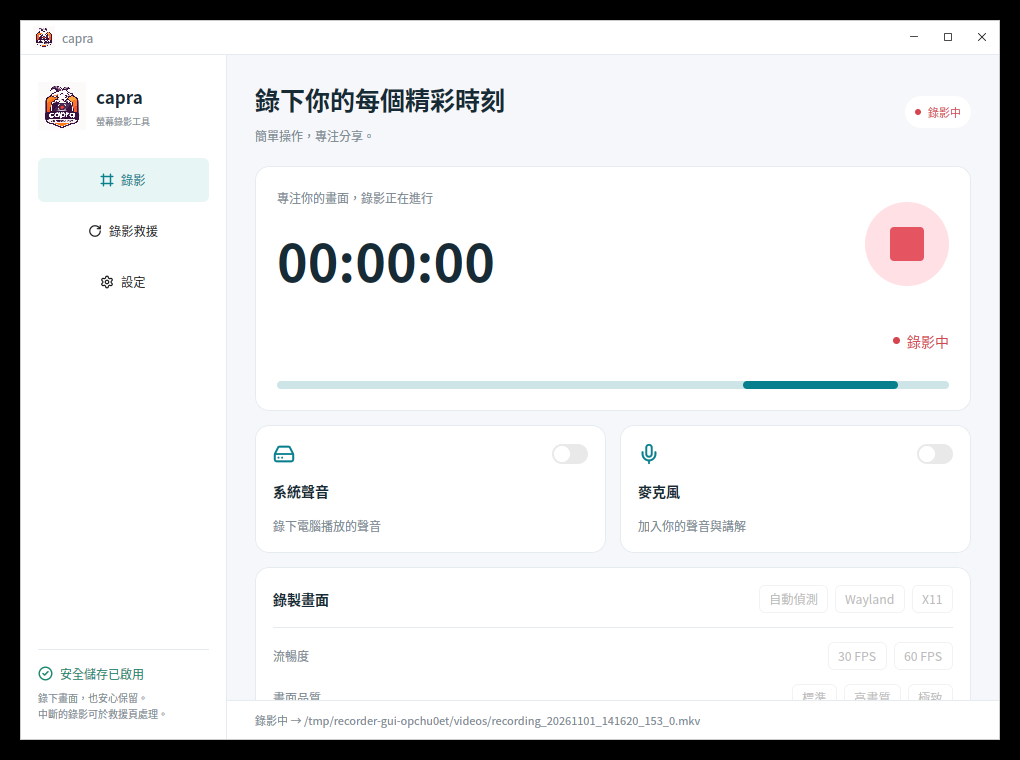
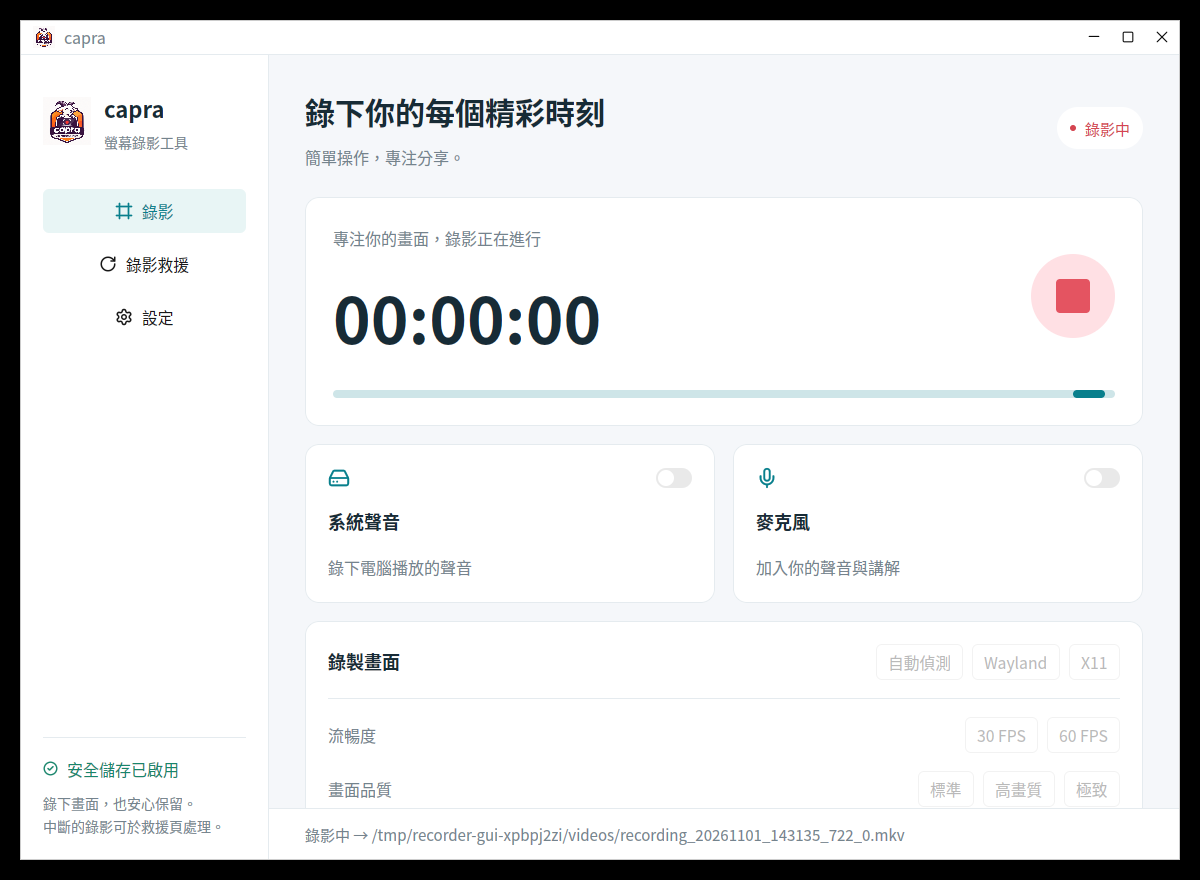
Update UI elements and improve test script for better functionality

diff --git a/src/ui.rs b/src/ui.rs
@@ -11,7 +11,7 @@ use gpui_kit::{
         progress::Progress,
         slider::{Slider, SliderEvent, SliderState, SliderValue},
         switch::Switch,
-        Disableable, Icon, IconName, Selectable, Sizable, TitleBar,
+        Disableable, Icon, IconName, Selectable, TitleBar,
     },
     *,
 };
@@ -276,7 +276,7 @@ impl RecorderView {
         div()
             .flex()
             .flex_col()
-            .w(px(206.))
+            .w(px(248.))
             .flex_shrink_0()
             .h_full()
             .p_5()
@@ -299,10 +299,10 @@ impl RecorderView {
                             .child(
                                 div()
                                     .font_weight(FontWeight::SEMIBOLD)
-                                    .text_size(px(17.))
+                                    .text_size(px(22.))
                                     .child("capra"),
                             )
-                            .child(muted("螢幕錄影工具").text_size(px(9.))),
+                            .child(muted("螢幕錄影工具").text_size(px(14.))),
                     ),
             )
             .child(nav)
@@ -321,20 +321,19 @@ impl RecorderView {
                             .gap_2()
                             .items_center()
                             .text_color(rgb(0x18856b))
-                            .text_size(px(12.))
+                            .text_size(px(16.))
                             .child(Icon::new(IconName::CircleCheck).size(px(15.)))
                             .child("安全儲存已啟用"),
                     )
                     .child(
                         muted("錄下畫面，也安心保留。\n中斷的錄影可於救援頁處理。")
-                            .text_size(px(10.)),
+                            .text_size(px(14.)),
                     ),
             )
     }
     fn recorder(&self, cx: &mut Context<Self>) -> Div {
         let phase = self.app.lifecycle.phase;
         let busy = self.app.busy();
-        let (label, color) = self.phase();
         let elapsed = self
             .app
             .start_time
@@ -370,7 +369,7 @@ impl RecorderView {
                             }))
                             .child(
                                 div()
-                                    .text_size(px(52.))
+                                    .text_size(px(64.))
                                     .font_weight(FontWeight::SEMIBOLD)
                                     .child(format!(
                                         "{:02}:{:02}:{:02}",
@@ -408,22 +407,6 @@ impl RecorderView {
                                 this.app.toggle_recording();
                                 cx.notify();
                             })),
-                    ),
-            )
-            .child(
-                div()
-                    .flex()
-                    .items_center()
-                    .justify_end()
-                    .min_h(px(46.))
-                    .child(
-                        div()
-                            .flex()
-                            .items_center()
-                            .gap_2()
-                            .text_color(rgb(color))
-                            .child(div().size(px(7.)).rounded_full().bg(rgb(color)))
-                            .child(label),
                     ),
             )
             .when(busy, |panel| {
@@ -596,7 +579,7 @@ impl RecorderView {
                         div()
                             .flex_1()
                             .min_w_0()
-                            .text_size(px(11.))
+                            .text_size(px(15.))
                             .text_color(rgb(MUTED))
                             .text_ellipsis()
                             .child(self.app.settings.save_directory.clone()),
@@ -604,7 +587,6 @@ impl RecorderView {
                     .child(
                         Button::new("open-record-folder")
                             .ghost()
-                            .small()
                             .icon(IconName::FolderOpen)
                             .label("開啟資料夾")
                             .on_click(cx.listener(|this, _, _, _| this.open_folder())),
@@ -708,7 +690,6 @@ impl RecorderView {
                     .child(
                         Button::new("reset-audio")
                             .ghost()
-                            .small()
                             .label("恢復建議值")
                             .disabled(busy)
                             .on_click(cx.listener(|this, _, window, cx| {
@@ -880,7 +861,6 @@ impl RecorderView {
                 .child(
                     Button::new("refresh-recovery")
                         .ghost()
-                        .small()
                         .icon(IconName::RefreshCw)
                         .label("重新掃描")
                         .disabled(busy)
@@ -985,7 +965,7 @@ impl Render for RecorderView {
             .flex()
             .bg(rgb(BACKGROUND))
             .text_color(rgb(INK))
-            .text_size(px(14.))
+            .text_size(px(18.))
             .font_family("Noto Sans CJK TC")
             .child(self.sidebar(cx))
             .child(
@@ -1011,7 +991,7 @@ impl Render for RecorderView {
                                     .gap_2()
                                     .child(
                                         div()
-                                            .text_size(px(25.))
+                                            .text_size(px(30.))
                                             .font_weight(FontWeight::BOLD)
                                             .child(title),
                                     )
@@ -1026,7 +1006,7 @@ impl Render for RecorderView {
                                     .py_2()
                                     .rounded_full()
                                     .bg(rgb(0xffffff))
-                                    .text_size(px(11.))
+                                    .text_size(px(15.))
                                     .text_color(rgb(color))
                                     .child(div().size(px(6.)).rounded_full().bg(rgb(color)))
                                     .child(phase),
@@ -1058,7 +1038,7 @@ impl Render for RecorderView {
                                 .gap_2()
                                 .child(
                                     div()
-                                        .text_size(px(11.))
+                                        .text_size(px(15.))
                                         .text_color(rgb(
                                             if self.app.lifecycle.phase == Phase::Failed {
                                                 0xc54950
@@ -1091,7 +1071,7 @@ impl Render for RecorderView {
                                 .px_8()
                                 .py_3()
                                 .bg(rgb(0xfff3d9))
-                                .text_size(px(11.))
+                                .text_size(px(15.))
                                 .child(error),
                         )
                     }),
@@ -1113,7 +1093,7 @@ impl Render for RecorderView {
                                     .flex()
                                     .items_center()
                                     .gap_2()
-                                    .text_size(px(12.))
+                                    .text_size(px(16.))
                                     .text_color(rgb(MUTED))
                                     .child(
                                         img(app_logo())
@@ -1142,7 +1122,7 @@ fn card() -> Div {
 }
 fn muted(text: impl Into<SharedString>) -> Div {
     div()
-        .text_size(px(12.))
+        .text_size(px(16.))
         .text_color(rgb(MUTED))
         .child(text.into())
 }
@@ -1154,7 +1134,7 @@ fn section(title: impl Into<SharedString>, description: impl Into<SharedString>)
         .child(
             div()
                 .font_weight(FontWeight::SEMIBOLD)
-                .text_size(px(15.))
+                .text_size(px(20.))
                 .child(title.into()),
         )
         .child(muted(description))

diff --git a/tests/gui_close_smoke.py b/tests/gui_close_smoke.py
@@ -160,24 +160,24 @@ try:
                 capture(display_name,'recorder')
                 if os.environ.get('CAPRA_CAPTURE_DIR'):
                     inset=54 if compositor is not None else 0
-                    nav_x=115 if compositor is not None else 95
-                    click(display,window,nav_x,174+inset);capture(display_name,'recovery')
+                    nav_x=130 if compositor is not None else 110
+                    click(display,window,nav_x,210+inset);capture(display_name,'recovery')
                     if keep:
-                        click(display,window,nav_x,227+inset);capture(display_name,'settings')
-                    click(display,window,nav_x,124+inset)
+                        click(display,window,nav_x,264+inset);capture(display_name,'settings')
+                    click(display,window,nav_x,157+inset)
                 if os.environ.get('CAPRA_NAVIGATION_TEST') and not keep:
                     inset=54 if compositor is not None else 0
-                    click(display,window,115 if compositor is not None else 95,227+inset)
+                    click(display,window,130 if compositor is not None else 110,264+inset)
                     capture(display_name,'settings')
                     # Exercise the actual Component switch and persisted retention value.
                     _,_,width,_=geometry(display,window)
-                    switch_x=width-(85 if compositor is not None else 65)
-                    click(display,window,switch_x,221+inset)
+                    switch_x=width-(98 if compositor is not None else 78)
+                    click(display,window,switch_x,289+inset)
                     assert json.loads((config/'settings.json').read_text())['keep_mkv'] != keep
-                    click(display,window,switch_x,221+inset)
+                    click(display,window,switch_x,289+inset)
                     assert json.loads((config/'settings.json').read_text())['keep_mkv'] == keep
                     focused=False
-                    for input_y in range(390,491,10):
+                    for input_y in range(540,671,10):
                         click(display,window,450,input_y+inset)
                         press(display,'a',True);press(display,'BackSpace');time.sleep(.2)
                         if json.loads((config/'settings.json').read_text())['save_directory']=='':
@@ -187,12 +187,12 @@ try:
                     for char in str(videos):press(display,char)
                     time.sleep(.3)
                     assert json.loads((config/'settings.json').read_text())['save_directory']==str(videos), json.loads((config/'settings.json').read_text())['save_directory']
-                    click(display,window,115 if compositor is not None else 95,124+inset)
+                    click(display,window,130 if compositor is not None else 110,157+inset)
                 def record_control():
                     if os.environ.get('CAPRA_MOUSE_RECORD_TEST'):
                         _,_,width,_=geometry(display,window)
                         inset=54 if compositor is not None else 0
-                        click(display,window,width-(116 if compositor is not None else 96),198+inset)
+                        click(display,window,width-(127 if compositor is not None else 107),242+inset)
                     else:
                         key(display,window)
                 record_control()

diff --git a/src/main.rs b/src/main.rs
@@ -42,7 +42,7 @@ fn main() -> Result<(), Box<dyn std::error::Error>> {
             Theme::change(ThemeMode::Light, None, cx);
             Theme::update(cx, |theme| {
                 theme.font_family = "Noto Sans CJK TC".into();
-                theme.font_size = px(14.);
+                theme.font_size = px(18.);
                 theme.colors.primary = rgb(0x087f8c).into();
                 theme.colors.primary_hover = rgb(0x096c77).into();
                 theme.colors.primary_active = rgb(0x075c65).into();
@@ -59,7 +59,7 @@ fn main() -> Result<(), Box<dyn std::error::Error>> {
                 }
             })
             .detach();
-            let bounds = Bounds::centered(None, size(px(1020.), px(760.)), cx);
+            let bounds = Bounds::centered(None, size(px(1200.), px(880.)), cx);
             gpui_kit::open_window(
                 WindowOptions {
                     window_bounds: Some(WindowBounds::Windowed(bounds)),
@@ -68,7 +68,7 @@ fn main() -> Result<(), Box<dyn std::error::Error>> {
                         appears_transparent: false,
                         ..Default::default()
                     }),
-                    window_min_size: Some(size(px(820.), px(620.))),
+                    window_min_size: Some(size(px(1020.), px(760.))),
                     app_id: Some("capra".into()),
                     window_decorations: Some(WindowDecorations::Client),
                     app_owns_titlebar_drag: true,
